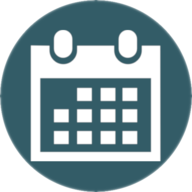
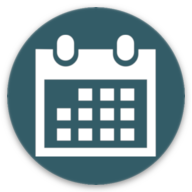
finalized color scheme

diff --git a/index.html b/index.html
@@ -15,12 +15,13 @@
 	<!-- iOS Safari -->
 	<meta name="apple-mobile-web-app-status-bar-style" content="#335C67">
 
-	<link rel="apple-touch-icon" sizes="180x180" href="./apple-touch-icon.png">
-	<link rel="icon" type="image/png" sizes="32x32" href="./favicon-32x32.png">
-	<link rel="icon" type="image/png" sizes="16x16" href="./favicon-16x16.png">
-	<link rel="manifest" href="./site.webmanifest">
-	<link rel="mask-icon" href="./safari-pinned-tab.svg" color="#335C67">
-	<meta name="msapplication-TileColor" content="#335C67">
+	<link rel="apple-touch-icon" sizes="180x180" href="/apple-touch-icon.png">
+	<link rel="icon" type="image/png" sizes="32x32" href="/favicon-32x32.png">
+	<link rel="icon" type="image/png" sizes="16x16" href="/favicon-16x16.png">
+	<link rel="manifest" href="/site.webmanifest">
+	<link rel="mask-icon" href="/safari-pinned-tab.svg" color="#335c67">
+	<meta name="msapplication-TileColor" content="#335c67">
+	<meta name="theme-color" content="#ffffff">
 
 
 	<link href="https://fonts.googleapis.com/css?family=Open+Sans|Raleway" rel="stylesheet">
